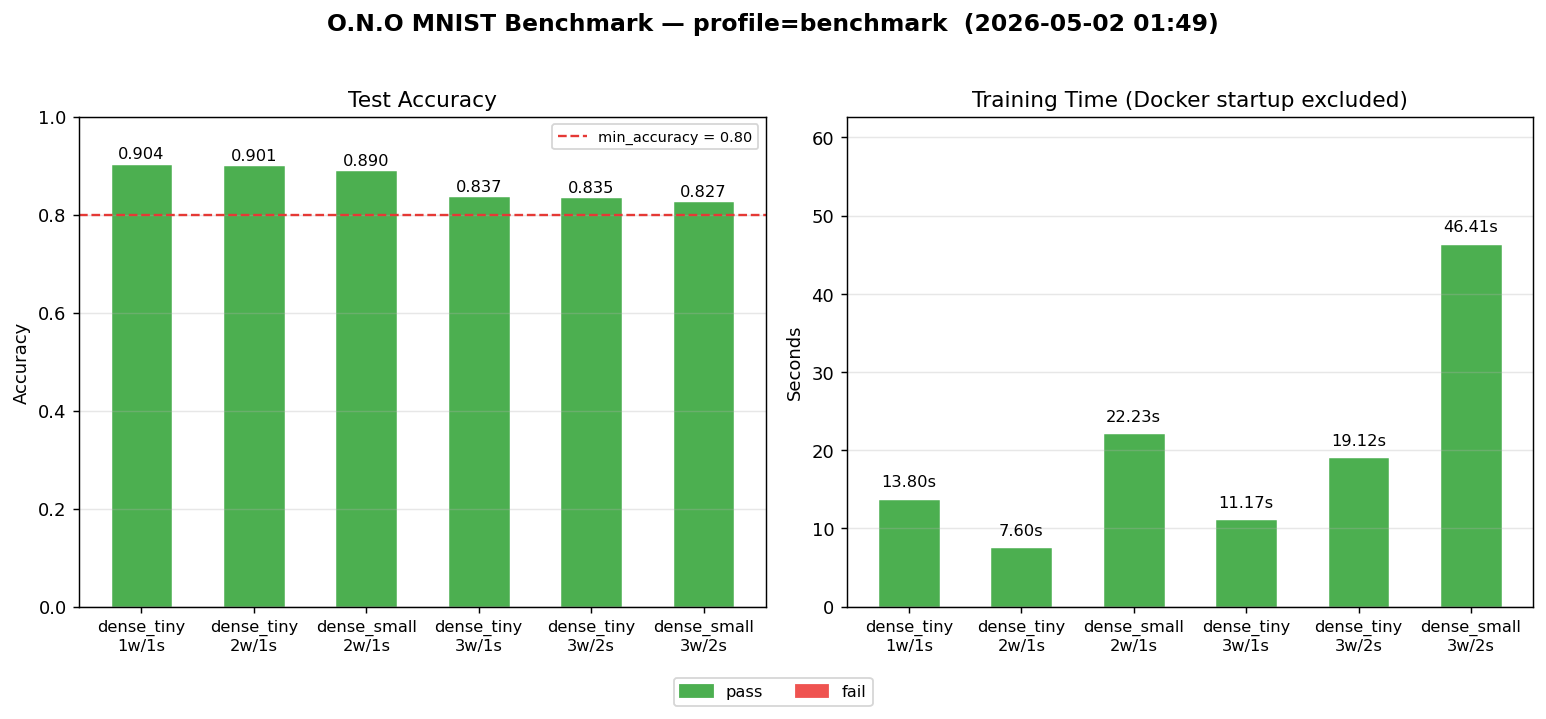
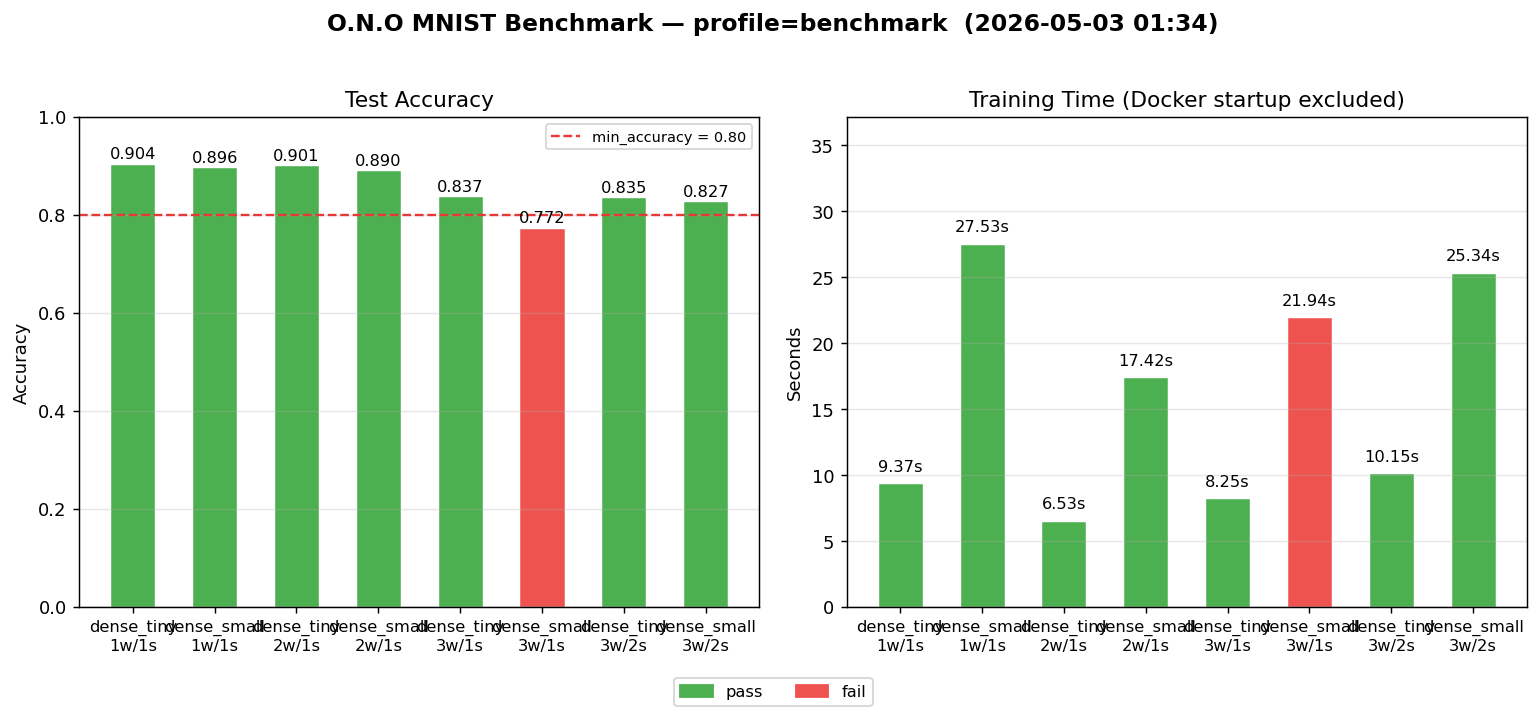
feat(node): keep runtime alive for sequential training sessions + fix tests

diff --git a/benchmarks/mnist_e2e.py b/benchmarks/mnist_e2e.py
@@ -86,34 +86,39 @@ MODEL_DEFS = {
     },
 }
 
-# ── Training presets ──────────────────────────────────────────────────────────
+# ── Run generation ────────────────────────────────────────────────────────────
 
-TRAINING_PRESETS = {
-    "ps_1w_1s_base_barrier": {
-        "workers": 1, "servers": 1,
-        "serializer": "base", "sync": "barrier", "store": "blocking",
-    },
-    "ps_2w_1s_base_barrier": {
-        "workers": 2, "servers": 1,
-        "serializer": "base", "sync": "barrier", "store": "blocking",
-    },
-    "ps_3w_1s_base_barrier": {
-        "workers": 3, "servers": 1,
-        "serializer": "base", "sync": "barrier", "store": "blocking",
-    },
-    "ps_3w_2s_base_barrier": {
-        "workers": 3, "servers": 2,
-        "serializer": "base", "sync": "barrier", "store": "blocking",
-    },
-    "ps_2w_1s_sparse_barrier": {
-        "workers": 2, "servers": 1,
-        "serializer": "sparse", "sync": "barrier", "store": "blocking",
-    },
-    "ps_2w_1s_nonblocking": {
-        "workers": 2, "servers": 1,
-        "serializer": "base", "sync": "nonblocking", "store": "wild",
-    },
-}
+
+def build_runs(profile_cfg: dict, all_presets: dict) -> list:
+    """
+    Generate the run list as a cartesian product of models × training_presets.
+
+    Override priority (highest wins): combo (model+preset) > model > preset > defaults.
+    """
+    defaults  = profile_cfg["defaults"]
+    overrides = profile_cfg.get("overrides", {})
+
+    runs = []
+    for preset_name in profile_cfg["training_presets"]:
+        preset = all_presets[preset_name]
+        for model in profile_cfg["models"]:
+            cfg = dict(defaults)
+            cfg.update(overrides.get(preset_name, {}))
+            cfg.update(overrides.get(model, {}))
+            cfg.update(overrides.get(f"{model}+{preset_name}", {}))
+
+            cfg["name"]       = f"{model}_{preset_name}"
+            cfg["model"]      = model
+            cfg["training"]   = preset_name
+            cfg["workers"]    = preset["workers"]
+            cfg["servers"]    = preset["servers"]
+            cfg["serializer"] = preset["serializer"]
+            cfg["sync"]       = preset["sync"]
+            cfg["store"]      = preset["store"]
+            runs.append(cfg)
+
+    return runs
+
 
 # ── Orchestra import ──────────────────────────────────────────────────────────
 
@@ -326,6 +331,16 @@ def containers_running(workers: int, servers: int) -> bool:
     return True
 
 
+def wait_nodes_ready(workers: int, servers: int, timeout: float = 30.0) -> bool:
+    """Wait until all node containers are Running, up to ``timeout`` seconds."""
+    deadline = time.monotonic() + timeout
+    while time.monotonic() < deadline:
+        if containers_running(workers, servers):
+            return True
+        time.sleep(1.0)
+    return False
+
+
 # ── Model building ────────────────────────────────────────────────────────────
 
 
@@ -357,7 +372,7 @@ def build_model(model_name: str):
     return Sequential(layers)
 
 
-def build_training(run_cfg: dict, preset: dict, train_s: Path, train_l: Path):
+def build_training(run_cfg: dict, train_s: Path, train_l: Path):
     import orchestra
     from orchestra.datasets import LocalDataset
     from orchestra.loss_fns import Mse
@@ -366,13 +381,13 @@ def build_training(run_cfg: dict, preset: dict, train_s: Path, train_l: Path):
     from orchestra.store import BlockingStore, WildStore
     from orchestra.sync import BarrierSync, NonBlockingSync
 
-    w, s = preset["workers"], preset["servers"]
+    w, s = run_cfg["workers"], run_cfg["servers"]
     worker_addrs = [f"worker-{i}:{50000 + i}" for i in range(w)]
     server_addrs = [f"server-{i}:{40000 + i}" for i in range(s)]
 
-    sync  = BarrierSync()    if preset["sync"]       == "barrier"  else NonBlockingSync()
-    store = BlockingStore()  if preset["store"]      == "blocking" else WildStore()
-    ser   = BaseSerializer() if preset["serializer"] == "base"     else SparseSerializer(r=0.9)
+    sync  = BarrierSync()    if run_cfg["sync"]       == "barrier"  else NonBlockingSync()
+    store = BlockingStore()  if run_cfg["store"]      == "blocking" else WildStore()
+    ser   = BaseSerializer() if run_cfg["serializer"] == "base"     else SparseSerializer(r=0.9)
 
     return orchestra.parameter_server(
         worker_addrs=worker_addrs,
@@ -504,7 +519,6 @@ def run_single(run_cfg: dict, profile_cfg: dict, profile_name: str) -> dict:
     """Execute one benchmark run. docker_start_seconds is filled by the caller."""
     model_name    = run_cfg["model"]
     training_name = run_cfg["training"]
-    preset        = TRAINING_PRESETS[training_name]
     train_n       = profile_cfg.get("train_samples")
     test_n        = profile_cfg.get("test_samples")
 
@@ -518,11 +532,11 @@ def run_single(run_cfg: dict, profile_cfg: dict, profile_name: str) -> dict:
         "profile":              profile_name,
         "model_name":           model_name,
         "training_name":        training_name,
-        "workers":              preset["workers"],
-        "servers":              preset["servers"],
-        "serializer":           preset["serializer"],
-        "sync":                 preset["sync"],
-        "store":                preset["store"],
+        "workers":              run_cfg["workers"],
+        "servers":              run_cfg["servers"],
+        "serializer":           run_cfg["serializer"],
+        "sync":                 run_cfg["sync"],
+        "store":                run_cfg["store"],
         "max_epochs":           run_cfg["max_epochs"],
         "batch_size":           run_cfg["batch_size"],
         "lr":                   run_cfg.get("lr", 0.5),
@@ -543,7 +557,7 @@ def run_single(run_cfg: dict, profile_cfg: dict, profile_name: str) -> dict:
         train_s, train_l, test_s, test_l = prepare_dataset(train_n, test_n)
 
         model    = build_model(model_name)
-        training = build_training(run_cfg, preset, train_s, train_l)
+        training = build_training(run_cfg, train_s, train_l)
 
         # ── Training (measured) ───────────────────────────────────────────────
         import orchestra
@@ -720,8 +734,9 @@ def main():
     with open(args.config) as f:
         config = json.load(f)
 
-    profile_cfg = config["profiles"][args.profile]
-    runs        = profile_cfg["runs"]
+    profile_cfg  = config["profiles"][args.profile]
+    all_presets  = config["training_presets"]
+    runs         = build_runs(profile_cfg, all_presets)
 
     if args.output is None:
         ts = datetime.datetime.now().strftime("%Y-%m-%dT%H-%M-%S")
@@ -730,8 +745,7 @@ def main():
     # Group runs by topology so we can reuse Docker containers
     by_topo: dict = {}
     for run in runs:
-        preset = TRAINING_PRESETS[run["training"]]
-        key    = (preset["workers"], preset["servers"])
+        key = (run["workers"], run["servers"])
         by_topo.setdefault(key, []).append(run)
 
     # Determine if /etc/hosts needs updating (ask for sudo once, upfront)
@@ -756,6 +770,7 @@ def main():
     all_results = []
 
     for (workers, servers), topo_runs in sorted(by_topo.items()):
+        topology_id = f"{workers}w_{servers}s"
         print(f"\n── {workers}w / {servers}s " + "─" * 50)
 
         docker_start_s = 0.0
@@ -774,42 +789,63 @@ def main():
             print(f"  ERROR: Docker setup failed: {e}")
             for run in topo_runs:
                 result = {
-                    "run_id":               run["name"],
-                    "profile":              args.profile,
-                    "model_name":           run["model"],
-                    "training_name":        run["training"],
-                    "workers":              workers,
-                    "servers":              servers,
-                    "docker_start_seconds": None,
-                    "train_seconds":        None,
-                    "eval_seconds":         None,
-                    "accuracy":             None,
-                    "passed":               False,
-                    "error":                str(e),
+                    "run_id":                 run["name"],
+                    "profile":                args.profile,
+                    "model_name":             run["model"],
+                    "training_name":          run["training"],
+                    "workers":                workers,
+                    "servers":                servers,
+                    "topology_id":            topology_id,
+                    "reused_topology":        False,
+                    "docker_restarted_for_run": False,
+                    "node_reuse_enabled":     True,
+                    "docker_start_seconds":   None,
+                    "train_seconds":          None,
+                    "eval_seconds":           None,
+                    "accuracy":               None,
+                    "passed":                 False,
+                    "error":                  str(e),
                 }
                 all_results.append(result)
                 save_result(result, args.output)
             continue
 
+        save_result({
+            "event":                "topology_started",
+            "topology_id":         topology_id,
+            "docker_start_seconds": docker_start_s,
+        }, args.output)
+
         try:
             for i, run in enumerate(topo_runs):
-                # node binary exits after each session; full down+up ensures clean state
-                if i > 0:
-                    print("  recycling containers for next run...")
-                    docker_down()
+                docker_restarted = False
+                if i > 0 and not wait_nodes_ready(workers, servers, timeout=30.0):
+                    print("  WARNING: nodes not ready after previous session — restarting Docker (fallback)")
+                    try:
+                        docker_down()
+                    except Exception:
+                        pass
                     docker_start_s = docker_up(workers, servers, rebuild=False)
                     ensure_hosts(workers, servers, sudo_pw)
+                    docker_restarted = True
+                    print(f"  Docker restarted in {docker_start_s:.1f}s (fallback recovery)")
 
                 print(f"\n  [{run['name']}]")
                 result = run_single(run, profile_cfg, args.profile)
-                result["docker_start_seconds"] = docker_start_s
+                result["docker_start_seconds"]    = docker_start_s if (i == 0 or docker_restarted) else 0.0
+                result["topology_id"]             = topology_id
+                result["reused_topology"]         = i > 0 and not docker_restarted
+                result["docker_restarted_for_run"] = docker_restarted
+                result["node_reuse_enabled"]      = True
                 all_results.append(result)
                 save_result(result, args.output)
 
                 status = "PASS" if result["passed"] else "FAIL"
                 ts_str = f"{result['train_seconds']:.2f}s" if result["train_seconds"] else "ERROR"
                 ac_str = f"{result['accuracy']:.3f}"       if result["accuracy"] is not None else "N/A"
-                print(f"  → {status}  train={ts_str}  acc={ac_str}")
+                reuse_tag   = " [reused]"           if result["reused_topology"]          else ""
+                restart_tag = " [fallback-restart]" if result["docker_restarted_for_run"] else ""
+                print(f"  → {status}  train={ts_str}  acc={ac_str}{reuse_tag}{restart_tag}")
 
                 # In smoke mode, abort the topology group on first errored run
                 if args.profile == "smoke" and not result["passed"] and result["error"]:

diff --git a/node/src/router.rs b/node/src/router.rs
@@ -11,11 +11,12 @@ use parameter_server::service::ServerBuilder;
 use tokio::net::tcp::{OwnedReadHalf, OwnedWriteHalf};
 use worker::builder::WorkerBuilder;
 
-/// Routes the first orchestrator connection to the appropriate runtime role.
+/// Routes incoming orchestrator connections to the appropriate runtime role,
+/// keeping the process alive across sequential sessions.
 ///
-/// A single `NodeRouter` represents one process lifecycle. After receiving a
-/// [`comms::protocol::NodeSpec`] from the orchestrator, the process commits to
-/// either the parameter-server or worker role for the duration of its run.
+/// Each session is isolated: state is owned within the session stack frame and
+/// dropped naturally when the session ends. The process then loops back to
+/// accept the next session.
 pub struct NodeRouter<F>
 where
     F: AsyncFnMut() -> io::Result<(OwnedReadHalf, OwnedWriteHalf)>,
@@ -38,28 +39,62 @@ where
         Self { acceptor }
     }
 
-    /// Accepts the orchestrator connection, reads the bootstrap spec, and runs the assigned role.
+    /// Runs the sequential session loop.
     ///
-    /// # Returns
-    /// An io error if occurred.
+    /// Blocks indefinitely, accepting one orchestrator connection per iteration.
+    /// Session-level errors are logged and the loop continues. Returns only if
+    /// the listener itself fails with a fatal error.
+    ///
+    /// # Errors
+    /// Returns an io error if the underlying listener fails.
     pub async fn run(mut self) -> io::Result<()> {
-        let Connection::Orchestrator(mut orch_handle) = self.acceptor.accept().await? else {
-            return Err(io::Error::other(
-                "expected orchestrator as first connection",
-            ));
-        };
+        loop {
+            info!("waiting for next session");
 
-        match orch_handle.pull_specification().await? {
-            PullSpecResponse::ParameterServer(spec) => {
-                run_server(self.acceptor, orch_handle, spec).await
+            let conn = self.acceptor.accept().await?;
+
+            let Connection::Orchestrator(orch_handle) = conn else {
+                warn!(
+                    "expected orchestrator as first connection, got unexpected connection type; skipping"
+                );
+                continue;
+            };
+
+            info!("accepted orchestrator connection");
+
+            match run_session(&mut self.acceptor, orch_handle).await {
+                Ok(()) => info!("session finished, waiting for next session"),
+                Err(e) => warn!("session failed: {e}, resetting and waiting for next session"),
             }
-            PullSpecResponse::Worker(spec) => run_worker(orch_handle, spec).await,
+        }
+    }
+}
+
+async fn run_session<F>(
+    acceptor: &mut Acceptor<OwnedReadHalf, OwnedWriteHalf, F>,
+    mut orch_handle: OrchHandle<NetRtp>,
+) -> io::Result<()>
+where
+    F: AsyncFnMut() -> io::Result<(OwnedReadHalf, OwnedWriteHalf)>,
+{
+    match orch_handle.pull_specification().await? {
+        PullSpecResponse::ParameterServer(spec) => {
+            info!("starting parameter server session server_id={}", spec.id);
+            run_server(acceptor, orch_handle, spec).await?;
+            info!("parameter server session finished");
+            Ok(())
+        }
+        PullSpecResponse::Worker(spec) => {
+            info!("starting worker session worker_id={}", spec.worker_id);
+            run_worker(orch_handle, spec).await?;
+            info!("worker session finished");
+            Ok(())
         }
     }
 }
 
 async fn run_server<F>(
-    mut acceptor: Acceptor<OwnedReadHalf, OwnedWriteHalf, F>,
+    acceptor: &mut Acceptor<OwnedReadHalf, OwnedWriteHalf, F>,
     mut orch_handle: OrchHandle<NetRtp>,
     spec: ServerSpec,
 ) -> io::Result<()>
